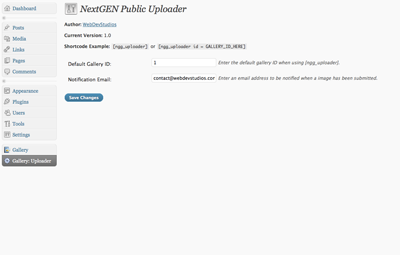
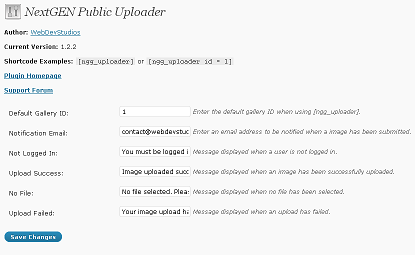
git-svn-id: https://plugins.svn.wordpress.org/nextgen-public-uploader/trunk@161334 b8457f37-d9ea-0310-8a92-e5e31aec5664

diff --git a/nextgen-public-uploader.php b/nextgen-public-uploader.php
@@ -3,7 +3,7 @@
 Plugin Name: NextGEN Public Uploader
 Plugin URI: http://webdevstudios.com/support/wordpress-plugins/nextgen-public-uploader/
 Description: NextGEN Public Uploader is an extension to NextGEN Gallery which allows frontend image uploads for your users.
-Version: 1.2.1
+Version: 1.2.2
 Author: WebDevStudios
 Author URI: http://webdevstudios.com
 
@@ -43,9 +43,12 @@ if(class_exists('nggLoader')) {
 		<h2>NextGEN Public Uploader</h2>
         
         <p><strong>Author:</strong> <a href="http://webdevstudios.com">WebDevStudios</a></p>
-        <p><strong>Current Version:</strong> 1.2.1</p>
-        
+        <p><strong>Current Version:</strong> 1.2.2</p>
+
         <p><strong>Shortcode Examples: </strong><code>[ngg_uploader]</code> or <code>[ngg_uploader id = 1]</code></p>
+
+		<p><strong><a href="http://webdevstudios.com/support/wordpress-plugins/nextgen-public-uploader/">Plugin Homepage</a></strong>
+		<p><strong><a href="http://webdevstudios.com/support/forum/nextgen-public-uploader/">Support Forum</a></strong></p>
         
 		<form method="post" action="options.php">
 		<?php wp_nonce_field('update-options'); ?>
@@ -59,19 +62,51 @@ if(class_exists('nggLoader')) {
         <span class="description">Enter the default gallery ID when using [ngg_uploader].</span>
         </td>
 		</tr>
-        
-        <tr valign="top">
+
+		<tr valign="top">
 		<th scope="row">Notification Email:</th>
 		<td>
         <input type="text" name="npu_notification_email" value="<?php echo get_option('npu_notification_email'); ?>" />
         <span class="description">Enter an email address to be notified when a image has been submitted.</span>
         </td>
 		</tr>
+
+        <tr valign="top">
+		<th scope="row">Not Logged In:</th>
+		<td>
+        <input type="text" name="npu_notlogged" value="<?php echo get_option('npu_notlogged'); ?>" />
+        <span class="description">Message displayed when a user is not logged in.</span>
+        </td>
+		</tr>
+
+		<tr valign="top">
+		<th scope="row">Upload Success:</th>
+		<td>
+        <input type="text" name="npu_upload_success" value="<?php echo get_option('npu_upload_success'); ?>" />
+        <span class="description">Message displayed when an image has been successfully uploaded.</span>
+        </td>
+		</tr>
+
+		<tr valign="top">
+		<th scope="row">No File:</th>
+		<td>
+        <input type="text" name="npu_no_file" value="<?php echo get_option('npu_no_file'); ?>" />
+        <span class="description">Message displayed when no file has been selected.</span>
+        </td>
+		</tr>
+
+		<tr valign="top">
+		<th scope="row">Upload Failed:</th>
+		<td>
+        <input type="text" name="npu_upload_failed" value="<?php echo get_option('npu_upload_failed'); ?>" />
+        <span class="description">Message displayed when an upload has failed.</span>
+        </td>
+		</tr>
 	
 		</table>
 
 		<input type="hidden" name="action" value="update" />
-		<input type="hidden" name="page_options" value="npu_default_gallery, npu_email_option, npu_notification_email" />
+		<input type="hidden" name="page_options" value="npu_default_gallery, npu_email_option, npu_notification_email, npu_notlogged, npu_upload_success, npu_no_file, npu_upload_failed" />
 
 		<p class="submit">
 		<input type="submit" class="button-primary" value="<?php _e('Save Changes') ?>" />

diff --git a/inc/npu-upload.php b/inc/npu-upload.php
@@ -206,7 +206,11 @@ if (!class_exists("npuGalleryUpload")) {
             }
             if (!is_user_logged_in()) {
                 $strOutput .= "<div class=\"need_login\">";
-                $strOutput .= "You must be registered and logged in to upload images.";
+				if(get_option('npu_notlogged')) {
+                $strOutput .= get_option('npu_notlogged');
+				} else {
+				$strOutput .= "You must be registered and logged in to upload images.";
+				}
                 $strOutput .= "</div>";
             } else {
                 $strOutput .= "<div id=\"uploadimage\">";
@@ -258,7 +262,13 @@ if (!class_exists("npuGalleryUpload")) {
                                 $this->arrErrorMsg[] = $strReturnMsg;
                             }
                         }
+					
+					if(get_option('npu_upload_success')) {
+					$this->arrImageMsg[] = get_option('npu_upload_success');
+					} else {
 					$this->arrImageMsg[] = "Thank you! Your image has been submitted and is pending review.";
+					}
+
 					$this->sendEmail();
                     }
 
@@ -272,12 +282,20 @@ if (!class_exists("npuGalleryUpload")) {
                             $this->strTimeStamp = $objEXIF->get_date_time();
                         }
                     } else {
+						if(get_option('npu_no_file')) {
+						$this->arrErrorMsg[] = get_option('npu_no_file');
+						} else {
                         $this->arrErrorMsg[] = "You must select a file to upload";
+						}
                     }
                     
                     $this->update_details();
                 } else {
-                    $this->arrErrorMsg[] = "Upload failed!";
+					if(get_option('npu_upload_failed')) {
+                    $this->arrErrorMsg[] = get_option('npu_upload_failed');
+					} else {
+					$this->arrErrorMsg[] = "Upload failed!";
+					}
                 }
 
                 if (count($this->arrErrorMsg) > 0 && (is_array($this->arrImageIds) &&count($this->arrImageIds) > 0)) {

diff --git a/inc/class.npu_uploader.php b/inc/class.npu_uploader.php
@@ -23,7 +23,7 @@ class UploaderNggAdmin extends nggAdmin
         $galleryID = (int) $_POST['galleryselect'];
 
         if ($galleryID == 0) {
-            nggGallery::show_error(__('No gallery selected !','nggallery'));
+            nggGallery::show_error(__('No gallery selected.','nggallery'));
             return;
         }
 
@@ -31,7 +31,7 @@ class UploaderNggAdmin extends nggAdmin
         $gallerypath = $wpdb->get_var("SELECT path FROM $wpdb->nggallery WHERE gid = '$galleryID' ");
         
         if (!$gallerypath){
-            nggGallery::show_error(__('Failure in database, no gallery path set !','nggallery'));
+            nggGallery::show_error(__('Failure in database, no gallery path set.','nggallery'));
             return;
         }
 
@@ -52,7 +52,7 @@ class UploaderNggAdmin extends nggAdmin
                 // check for allowed extension and if it's an image file
                 $ext = array('jpeg', 'jpg', 'png', 'gif');
                 if ( !in_array($filepart['extension'], $ext) || !@getimagesize($temp_file) ){
-                    nggGallery::show_error('<strong>'.$_FILES[$key]['name'].' </strong>'.__('is no valid image file!','nggallery'));
+                    nggGallery::show_error('<strong>'.$_FILES[$key]['name'].' </strong>'.__('is not a valid file.','nggallery'));
                     continue;
                 }
 
@@ -78,7 +78,7 @@ class UploaderNggAdmin extends nggAdmin
                     continue;
                 }
                 if (!$this->chmod ($dest_file)) {
-                    nggGallery::show_error(__('Error, the file permissions could not set','nggallery'));
+                    nggGallery::show_error(__('Error, the file permissions could not set.','nggallery'));
                     continue;
                 }
 
